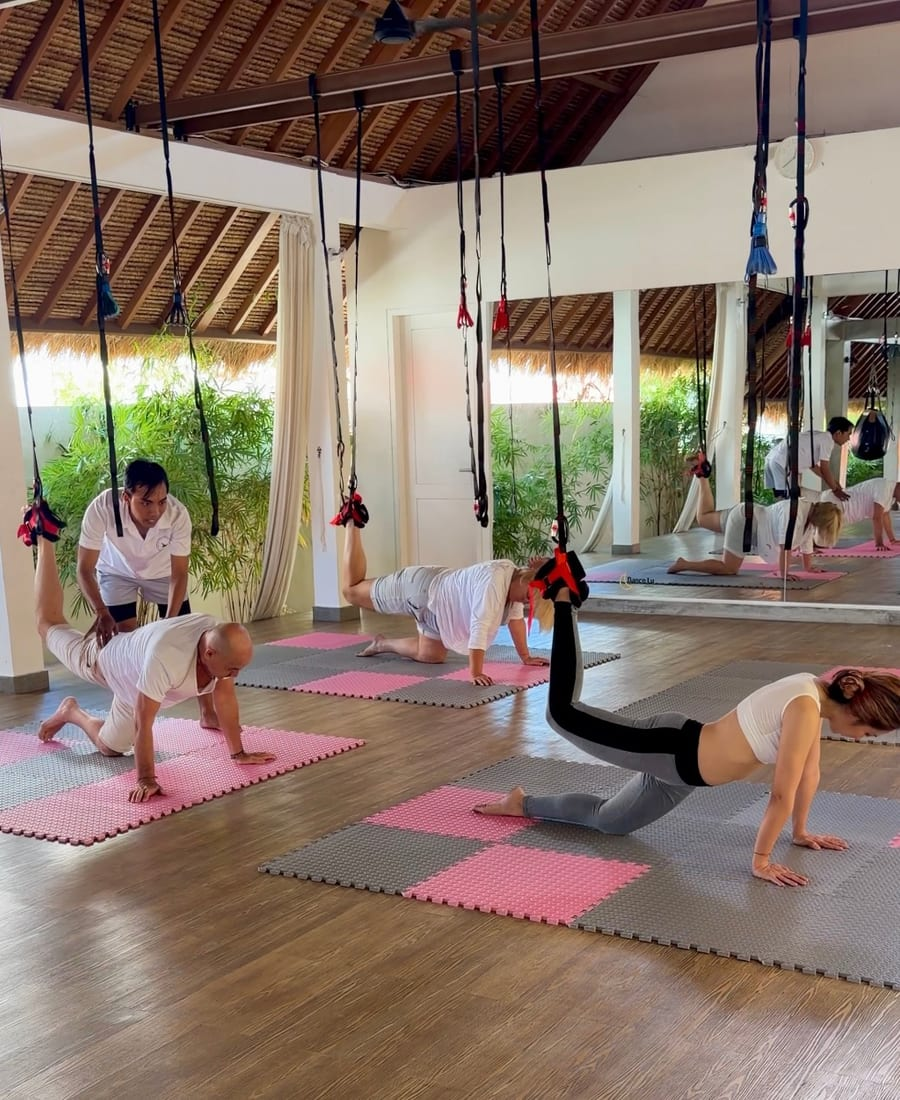
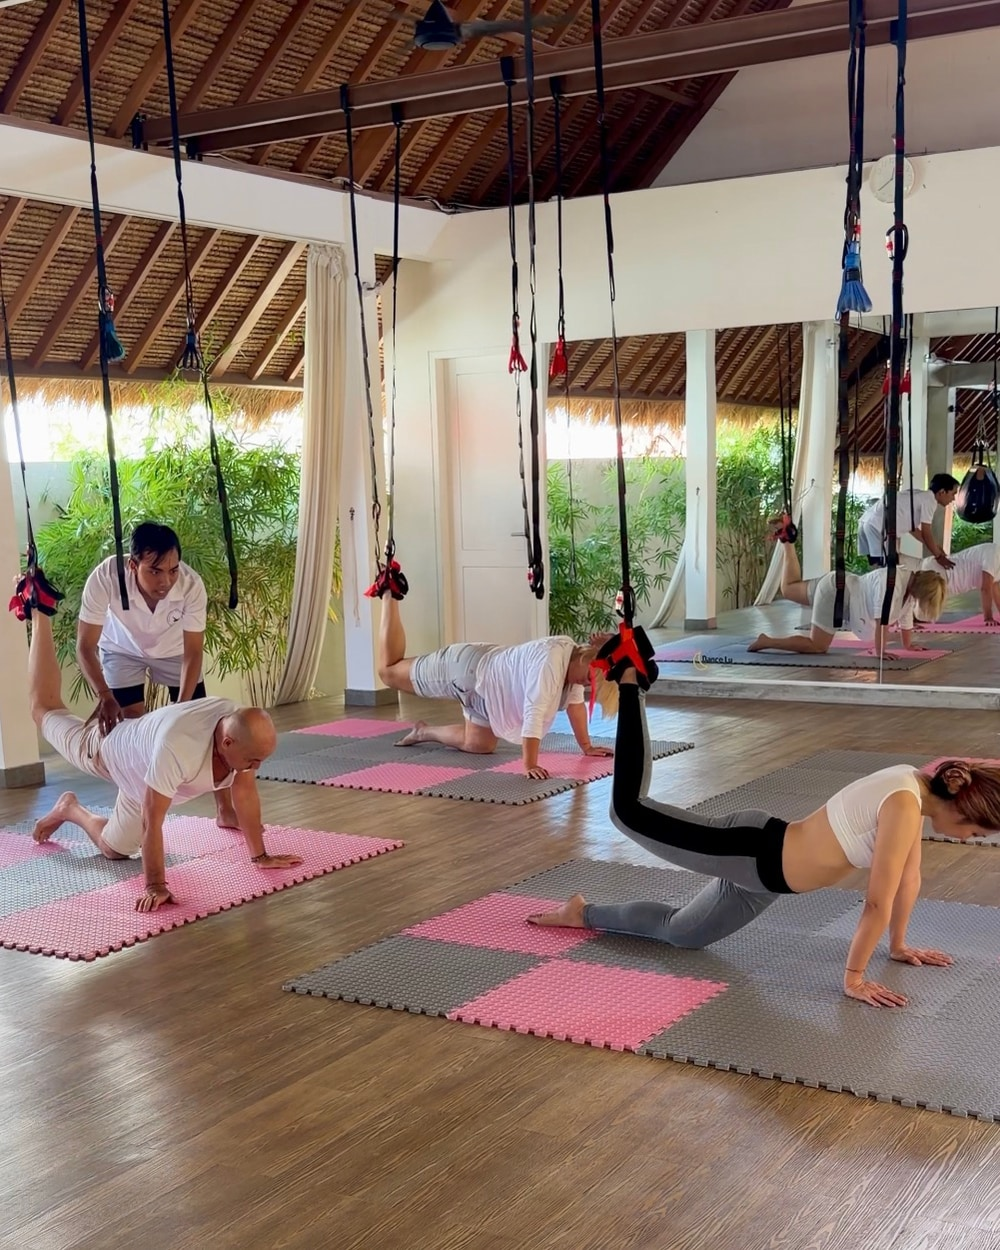
Studio chooser: brighter photos, scrim only behind the label
The full-height dark gradient made the chooser photos look gloomy. Replace it
with a soft scrim along just the bottom third (behind the studio name) so the
top of each photo stays bright and clean, plus a small brightness-105 lift.
Re-encoded the bundled covers at higher quality (1000×1250, q92) with no
darkening so they match the originals.

diff --git a/app/_components/StudioChooser.tsx b/app/_components/StudioChooser.tsx
@@ -58,16 +58,18 @@ export default function StudioChooser({ studios }: { studios: StudioOption[] }) 
               >
                 {/* Cover photo. Brand-green button bg shows through if a newer
                     studio doesn't have a cover image yet. */}
-                {/* Admin-uploaded cover wins; otherwise the bundled photo. */}
+                {/* Admin-uploaded cover wins; otherwise the bundled photo.
+                    Slight brightness lift so the photo looks vivid, not gloomy. */}
                 {/* eslint-disable-next-line @next/next/no-img-element */}
                 <img
                   src={s.coverUrl || `/studios/${s.slug}.jpg`}
                   alt={label}
                   onError={(e) => { (e.currentTarget as HTMLImageElement).style.display = "none" }}
-                  className="absolute inset-0 w-full h-full object-cover transition-transform duration-500 group-hover:scale-105"
+                  className="absolute inset-0 w-full h-full object-cover brightness-105 transition-transform duration-500 group-hover:scale-105"
                 />
-                {/* Gradient scrim for legible text */}
-                <div className="absolute inset-0 bg-gradient-to-t from-black/70 via-black/15 to-transparent" />
+                {/* Soft scrim ONLY along the bottom, behind the label — keeps
+                    the top ~⅔ of the photo bright and clean. */}
+                <div className="absolute inset-x-0 bottom-0 h-1/3 bg-gradient-to-t from-black/65 via-black/25 to-transparent" />
 
                 {/* Label */}
                 <div className="absolute inset-x-0 bottom-0 p-5 flex items-end justify-between gap-2">